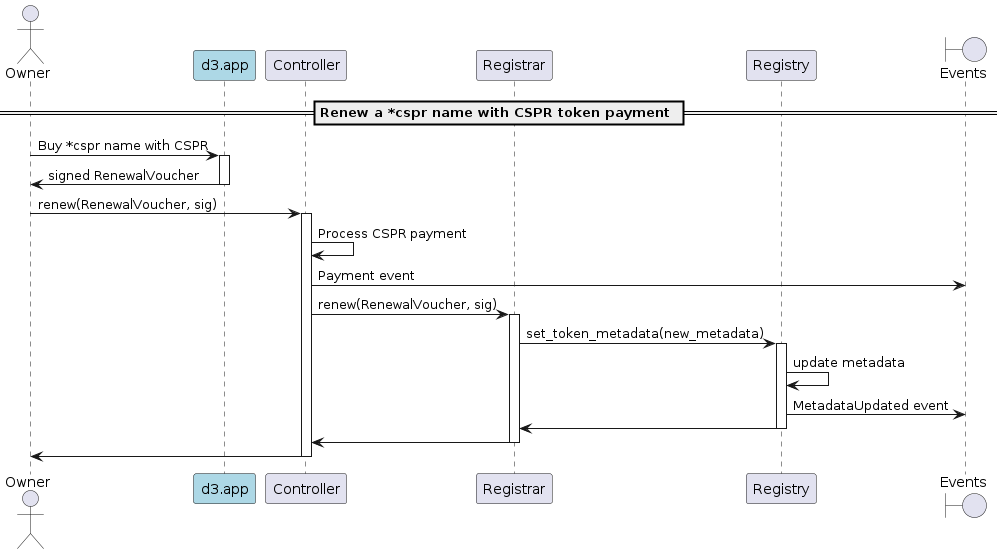
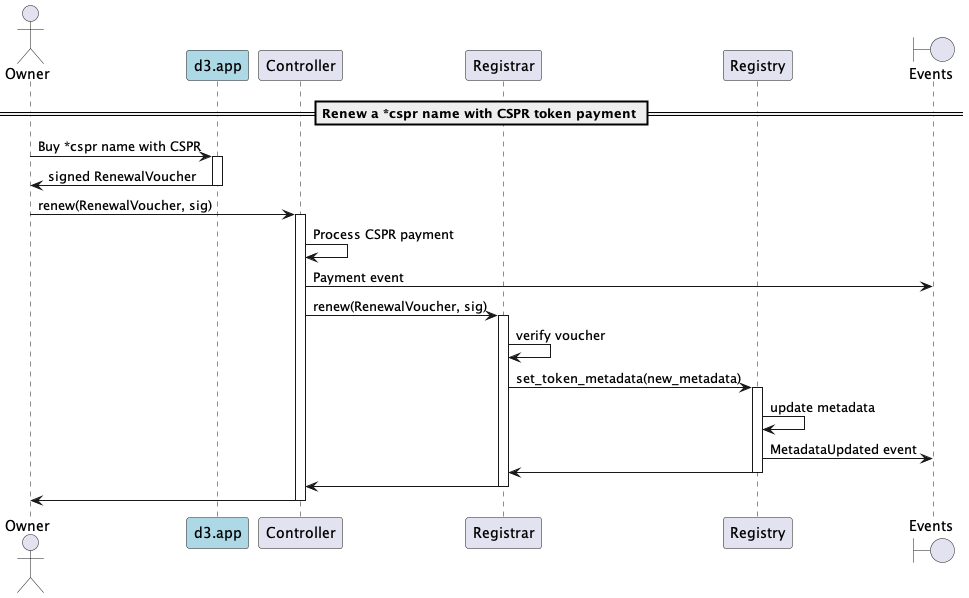
added voucher verification on renewals added flows for multiple names purchases in same transaction.

diff --git a/docs/sequence-diagrams/Buy a cspr name.md b/docs/sequence-diagrams/Buy a cspr name.md
@@ -7,7 +7,11 @@
 ![](puml/offchain-purchase.png)
 [🔗](puml/offchain-purchase.puml)
 
-NOTE: lightblue color indicates off-chain system
+> As a user, I must be able to buy multiple *cspr name with a fiat currency in one transaction on D3 web application
+
+![](puml/offchain-multiple-purchase.png)
+[🔗](puml/offchain-multiple-purchase.puml)
+
 
 ## Buy with CSPR token
 
@@ -16,3 +20,7 @@ NOTE: lightblue color indicates off-chain system
 ![](puml/onchain-purchase.png)
 [🔗](puml/onchain-purchase.puml)
 
+> As a user, I must be able to buy multiple *cspr names with CSPR token in one transaction on D3 web application
+
+![](puml/onchain-multiple-purchase.png)
+[🔗](puml/onchain-multiple-purchase.puml)

diff --git a/docs/sequence-diagrams/Resolution.md b/docs/sequence-diagrams/Resolution.md
@@ -35,7 +35,7 @@ The logic could be wrapped in a stored session call:
 
 # Reverse resolution
 
-TBC. Let's decide if we want to include reverse resolution in the first iteration. Or we postpone it for a later version.
+24-06-04: Decided to skip on-chain reverse resolution flows from first version of CSPR.name.
 
 ## Set reverse resolution
 
